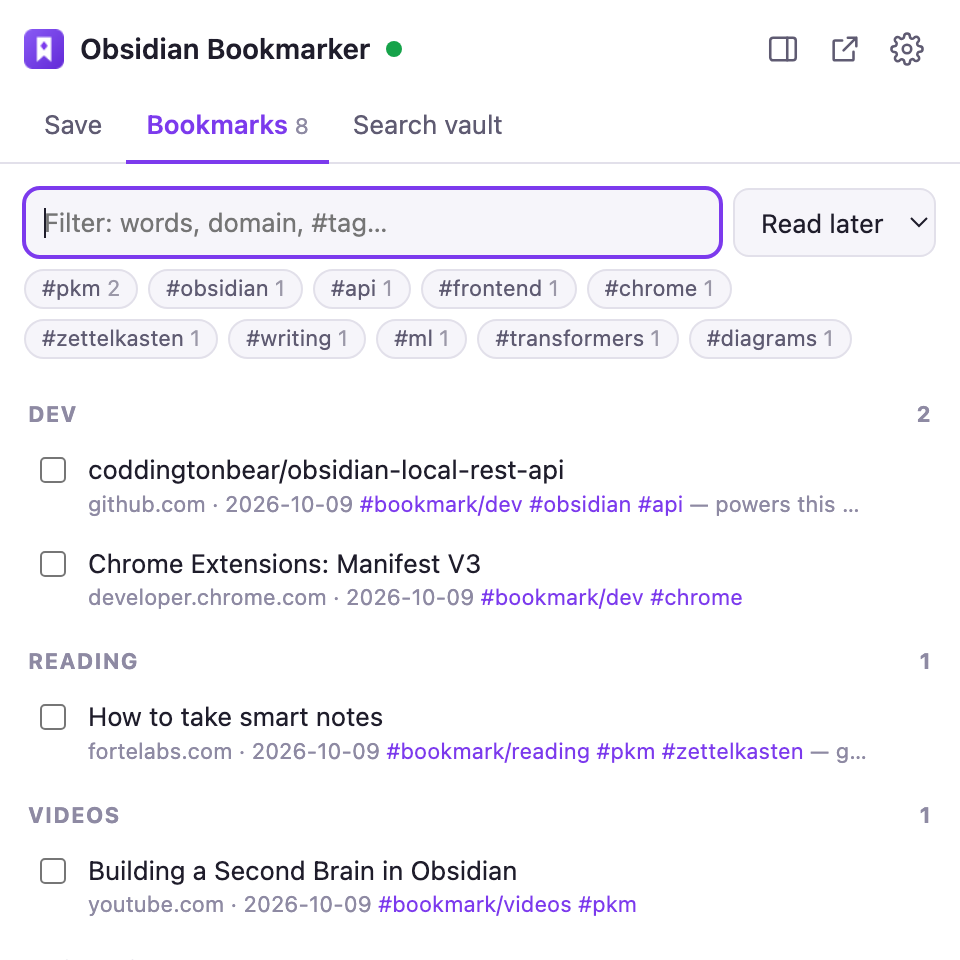
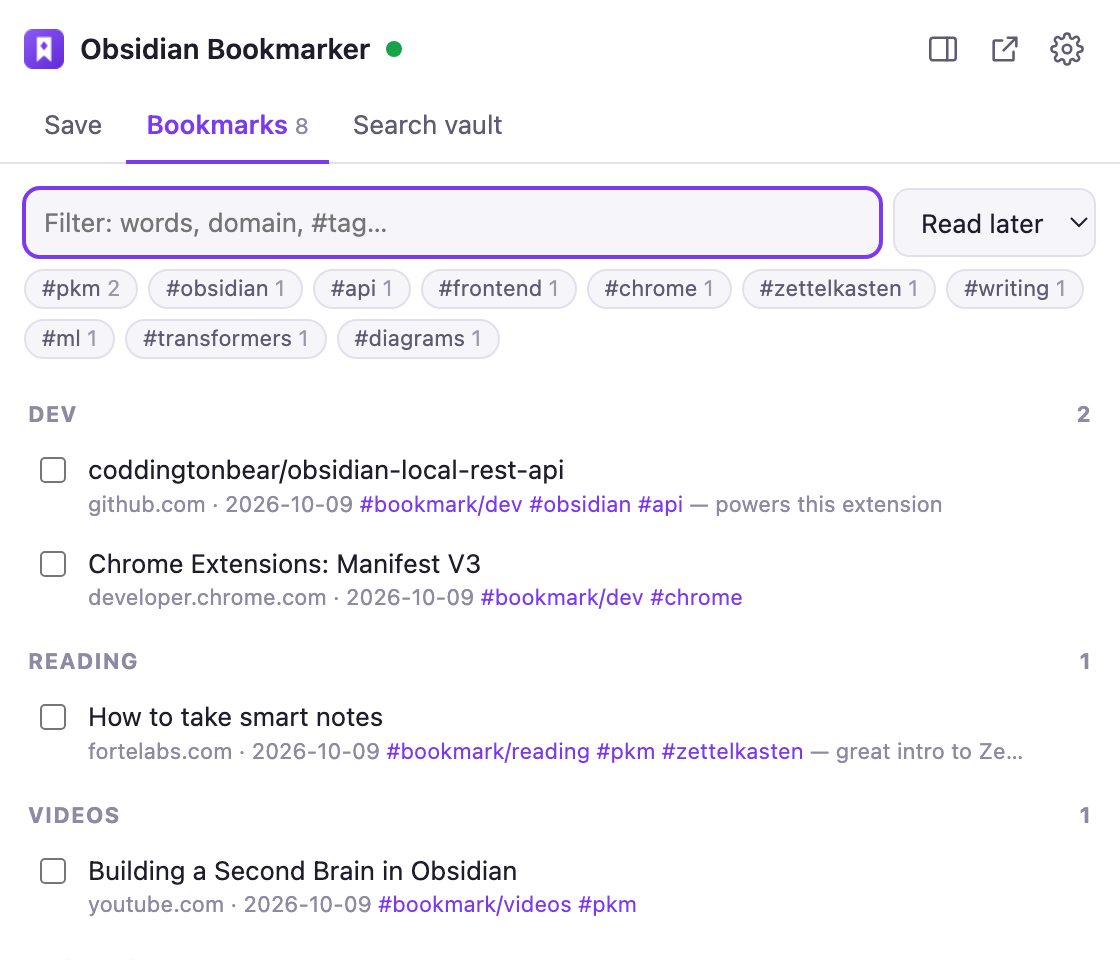
Make the popup larger (560x600)
- Popup is 560px wide and always opens at Chrome's 600px height limit
- Regenerate README screenshots at the new size

diff --git a/popup/popup.css b/popup/popup.css
@@ -40,8 +40,8 @@
 [hidden] { display: none !important; }
 html, body { margin: 0; }
 body {
-  width: 480px;
-  min-height: 480px;
+  width: 560px;
+  min-height: 600px;
   max-height: 600px;
   background: var(--bg);
   color: var(--fg);
